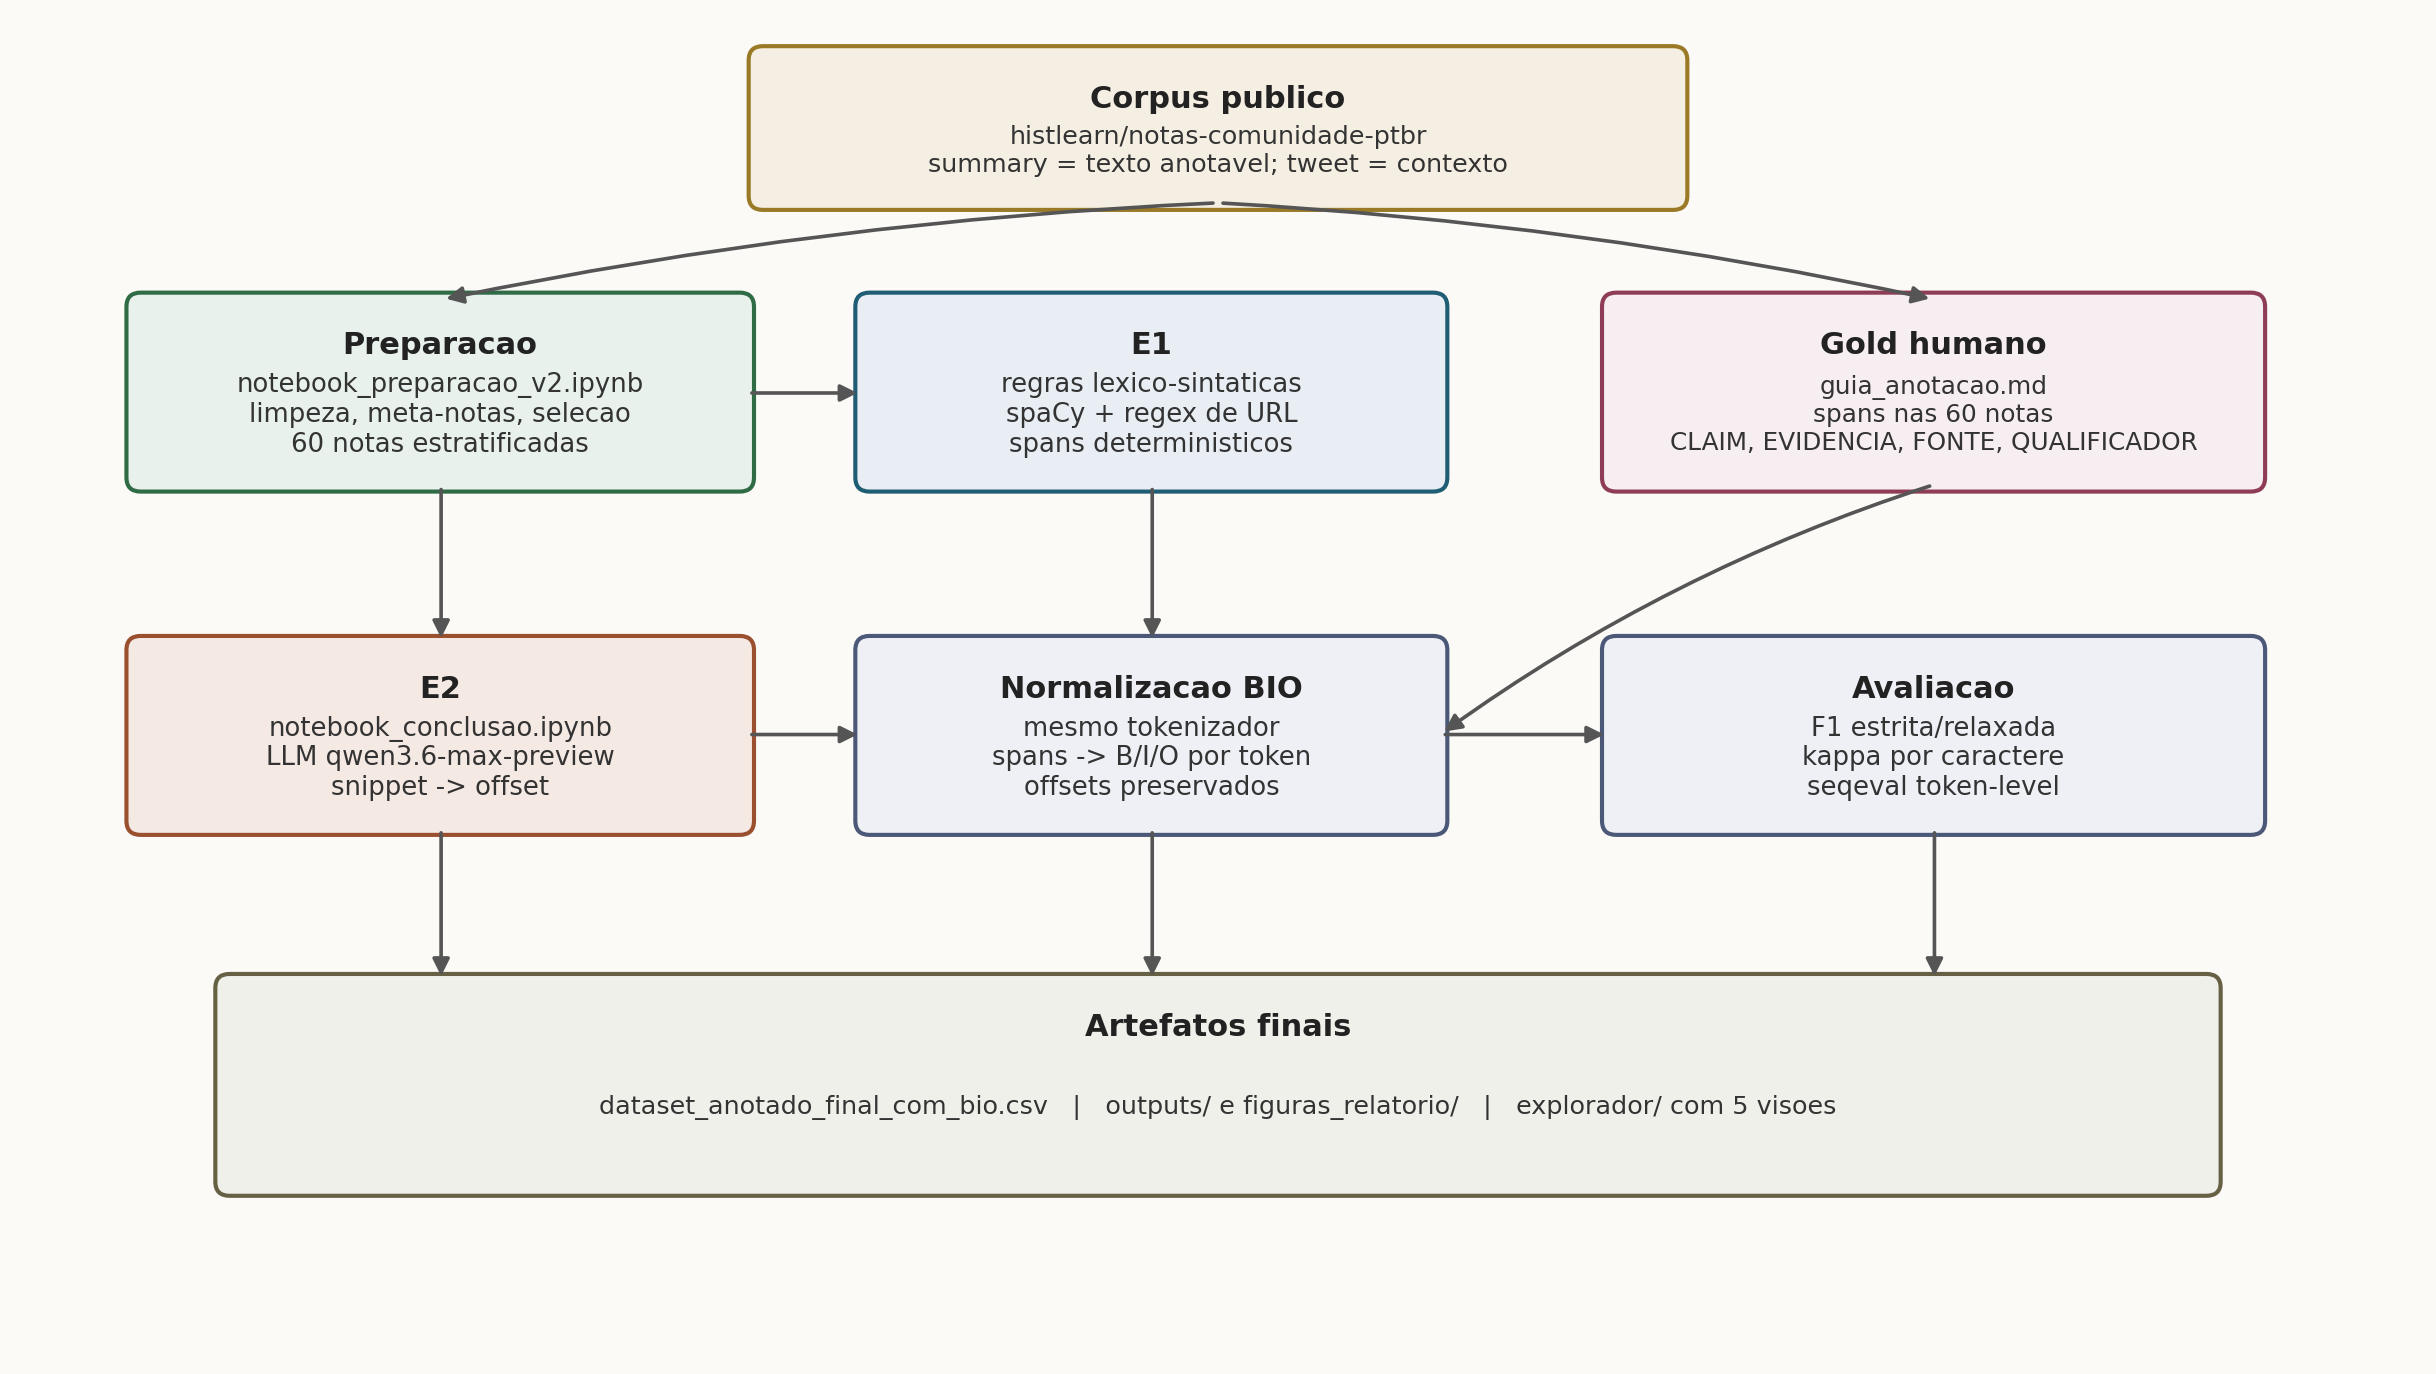
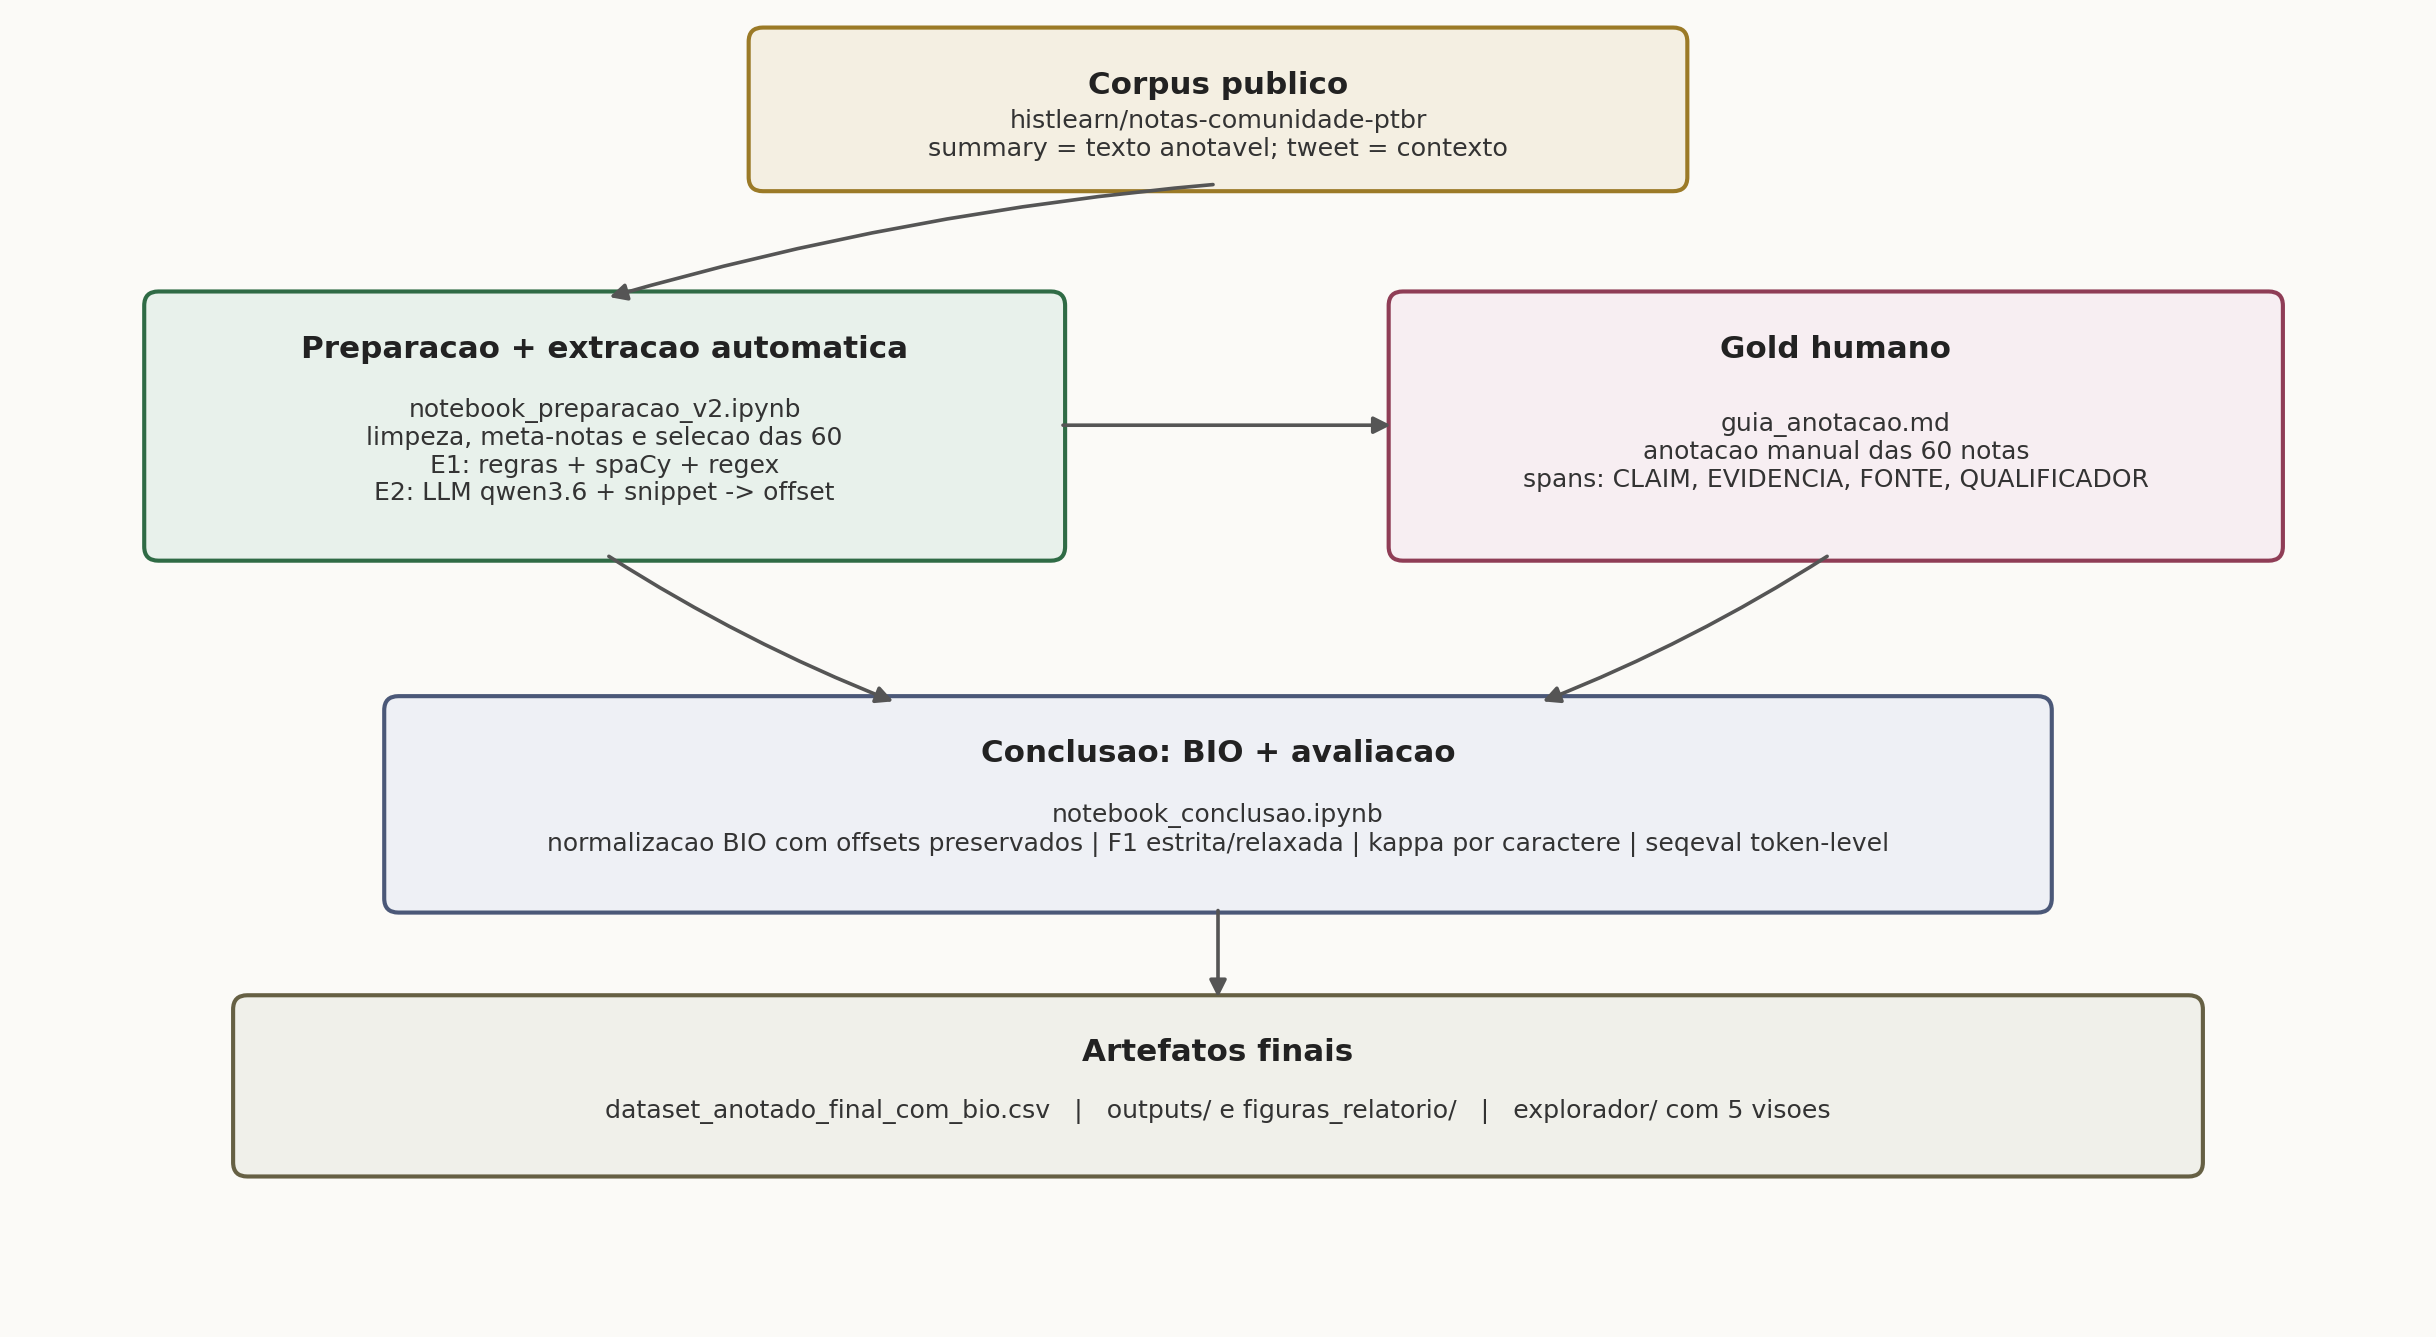
Corrige arquitetura dos notebooks

Changed region(s): [[0.0624, 0.3987, 0.936, 0.8893], [0.0312, 0.0, 0.936, 0.4293]]

diff --git a/docs/ARQUITETURA.md b/docs/ARQUITETURA.md
@@ -11,13 +11,13 @@ e os resultados, ver o [`README.md`](../README.md) na raiz e o
                                    │
                                    ▼
    ┌──────────────────────  notebook_preparacao_v2.ipynb  ──────────────────────┐
-   │ limpeza · seleção das 60 (estratificada por status, sem meta) · E1 (regras) │
+   │ limpeza · seleção das 60 · E1 (regras) · E2 (LLM) · alinhamento de spans    │
    └───────────────────────────────────┬─────────────────────────────────────────┘
-                                        │  dataset com E1
+                                        │  dataset com E1/E2
                                         ▼
    ┌──────────────────────  notebook_conclusao.ipynb  ──────────────────────────┐
-   │ E2 (LLM) · gold humano (JSON) · normalização BIO · avaliação (E1×E2 e vs    │
-   │ gold) · análises complementares (Dunning, entidades, agência) · gráficos    │
+   │ gold humano (JSON) · normalização BIO · avaliação (E1×E2 e vs gold) ·       │
+   │ análises complementares (Dunning, entidades, agência) · gráficos            │
    └───────────────────────────────────┬─────────────────────────────────────────┘
                                         │
               ┌─────────────────────────┼─────────────────────────┐
@@ -38,6 +38,8 @@ e os resultados, ver o [`README.md`](../README.md) na raiz e o
   (semente fixa) e validada por *assert* no notebook.
 - **Esquema de rótulos:** CLAIM, EVIDENCIA, FONTE, QUALIFICADOR — definições em
   [`guia_anotacao.md`](guia_anotacao.md).
+- **Extrações automáticas:** o mesmo notebook executa E1 e E2, deixando os *spans* automáticos
+  prontos para a etapa de conclusão.
 
 ### 2. Estratégia E1 — regras léxico-sintáticas
 
@@ -45,6 +47,7 @@ e os resultados, ver o [`README.md`](../README.md) na raiz e o
 - Heurísticas por tipo + **regex de URL** (que garante a captura de FONTE em links).
 - Saída: lista de *spans* `{start, end, type}` por nota. **Determinística**, transparente e de
   custo desprezível (mediana ≈ 2 ms/nota).
+- Executada em `notebook_preparacao_v2.ipynb`.
 - Limitação estrutural: depende de padrões sentenciais → **fronteiras frágeis** para
   CLAIM/EVIDÊNCIA.
 
@@ -57,6 +60,8 @@ e os resultados, ver o [`README.md`](../README.md) na raiz e o
 - URLs são garantidas por regex e **mescladas** ao resultado do LLM.
 - Custo: mediana ≈ 4,6 s/nota (p95 ≈ 10,8 s); algumas notas são **recusadas** pelo filtro de
   conteúdo do provedor (`e2_err`).
+- Executada em `notebook_preparacao_v2.ipynb`; `notebook_conclusao.ipynb` consome esses *spans*
+  para BIO e avaliação.
 
 ### 4. Gold humano
 
@@ -118,15 +123,16 @@ duplo-clique via `file://`, usando `<script>`/`<link>` clássicos). Cinco visõe
 - **Entidades GLiNER:** `hf_hub_download(repo_id="histlearn/notas-comunidade-ptbr",
   repo_type="dataset", revision="refs/convert/parquet", filename="entities/train/0000.parquet")`
   (~42 MB, cacheado). Filtre por `noteId` para o nosso recorte.
-- **Credenciais:** o E2 requer a chave do provedor do LLM (variável de ambiente); o *gold*
-  requer o caminho do JSON do anotador. Ambos são configuráveis no topo do `notebook_conclusao`.
+- **Credenciais:** o E2 requer a chave do provedor do LLM (variável de ambiente), configurada no
+  `notebook_preparacao_v2.ipynb`; o *gold* requer o caminho do JSON do anotador, configurável no
+  `notebook_conclusao.ipynb`.
 
 ## Mapa de artefatos
 
 | Artefato | Papel |
 |---|---|
-| `notebooks/notebook_preparacao_v2.ipynb` | preparação + E1 |
-| `notebooks/notebook_conclusao.ipynb` | **E2 + avaliação + resultados (canônico)** |
+| `notebooks/notebook_preparacao_v2.ipynb` | preparação + E1 + E2 |
+| `notebooks/notebook_conclusao.ipynb` | **BIO + avaliação + resultados (canônico)** |
 | `data/dataset_anotado_final_com_bio.csv` | dataset completo (spans, métricas, BIO, sintaxe) |
 | `data/dataset_anotado_final.parquet` | input canônico (E1/E2/métricas; gold a entrar pelo JSON) |
 | `data/gold/*.json` · `*.conll` | anotação humana (spans e BIO/CoNLL) |

diff --git a/docs/RELATORIO_FINAL.md b/docs/RELATORIO_FINAL.md
@@ -310,14 +310,15 @@ texto inteiro; e o seqeval traduz o mesmo problema para a forma exigida por mode
 
 ### 4.1 Visão geral do pipeline
 
-O fluxo encadeia: corpus → preparação → extração por E1 → extração por E2 → seleção das 60 →
-anotação humana → normalização BIO → avaliação (E1×E2 e contra o *gold*) → camadas interpretativas
-(Dunning, entidades, agência). A arquitetura completa está na Figura 1.
+O fluxo encadeia: corpus → `notebook_preparacao_v2.ipynb` (preparação, seleção das 60 e extrações
+E1/E2) → anotação humana → `notebook_conclusao.ipynb` (normalização BIO e avaliação E1×E2 e contra o
+*gold*) → camadas interpretativas (Dunning, entidades, agência). A arquitetura completa está na
+Figura 1.
 
 ![Arquitetura do pipeline](figuras_relatorio/fig_01_arquitetura.png)
 
-*Figura 1 — Arquitetura do pipeline experimental: corpus público, preparação, extração por E1 e E2,
-anotação humana, normalização BIO, avaliação e artefatos finais.*
+*Figura 1 — Arquitetura do pipeline experimental: o notebook de preparação produz as extrações E1 e
+E2; o notebook de conclusão realiza normalização BIO, avaliação, figuras e artefatos finais.*
 
 ### 4.2 Estratégia E1 — regras léxico-sintáticas
 
@@ -379,7 +380,8 @@ já dita, é o *gold* de um anotador só.
 ## 5. Resultados — avaliação quantitativa
 
 Os números a seguir foram reconciliados de forma reprodutível a partir das células determinísticas
-de `notebook_conclusao.ipynb` (script `_reconciliar_relatorio.py`, saídas em `outputs/`).
+de `notebook_conclusao.ipynb`, que consome os *spans* E1/E2 produzidos na preparação e executa a
+normalização BIO e as medidas de avaliação (script `_reconciliar_relatorio.py`, saídas em `outputs/`).
 
 ### 5.1 Acordo E1 × E2 nos três cortes
 
@@ -691,8 +693,8 @@ que este recorte apenas tangenciou.
 
 | Artefato | Uso |
 |---|---|
-| `notebooks/notebook_preparacao_v2.ipynb` | Preparação do corpus e extração E1. |
-| `notebooks/notebook_conclusao.ipynb` | Fonte canônica de resultados, BIO e avaliação. |
+| `notebooks/notebook_preparacao_v2.ipynb` | Preparação do corpus e extrações E1/E2. |
+| `notebooks/notebook_conclusao.ipynb` | Normalização BIO, medidas de avaliação e resultados. |
 | `_reconciliar_relatorio.py` · `outputs/` | Reprodução determinística das métricas e exportação dos CSVs. |
 | `figuras_relatorio/` | Figuras estáticas incorporadas a este relatório. |
 | `data/dataset_anotado_final_com_bio.csv` | Dataset completo (spans, métricas, BIO, sintaxe). |

diff --git a/README.md b/README.md
@@ -43,8 +43,8 @@ São comparadas (i) **entre si** sobre o corpus inteiro, em três cortes, e (ii)
 ```
 .
 ├── notebooks/                 # pipeline reprodutível (Colab/Jupyter)
-│   ├── notebook_preparacao_v2.ipynb   # coleta, preparação e E1 (regras)
-│   └── notebook_conclusao.ipynb       # E2, avaliação e resultados (fonte canônica)
+│   ├── notebook_preparacao_v2.ipynb   # coleta, preparação, E1 (regras) e E2 (LLM)
+│   └── notebook_conclusao.ipynb       # BIO, avaliação e resultados (fonte canônica)
 ├── data/                      # dataset, gold e dicionário de dados (ver data/README.md)
 │   ├── dataset_anotado_final_com_bio.csv   # 1901 notas × 30 colunas (spans, métricas, BIO, sintaxe)
 │   ├── dataset_anotado_final.parquet       # input canônico (E1/E2/métricas, gold vazio)
@@ -70,10 +70,11 @@ pip install -r requirements.txt
 python -m spacy download pt_core_news_md
 ```
 
-1. `notebooks/notebook_preparacao_v2.ipynb` — prepara o corpus e roda **E1**.
-2. `notebooks/notebook_conclusao.ipynb` — roda **E2**, a avaliação e gera os gráficos.
-   É a **fonte canônica dos números** do relatório. Para o E2, configure a credencial do
-   provedor do LLM; para o *gold*, aponte o(s) JSON(s) de anotador. Detalhes em
+1. `notebooks/notebook_preparacao_v2.ipynb` — prepara o corpus e roda **E1** e **E2**.
+   Para o E2, configure a credencial do provedor do LLM.
+2. `notebooks/notebook_conclusao.ipynb` — faz a normalização BIO, calcula as medidas de avaliação e
+   gera os gráficos. É a **fonte canônica dos números** do relatório; para o *gold*, aponte o(s)
+   JSON(s) de anotador. Detalhes em
    [`docs/ARQUITETURA.md`](docs/ARQUITETURA.md).
 
 > No ambiente local, leia Parquet com **`engine="fastparquet"`** ou DuckDB (as colunas de